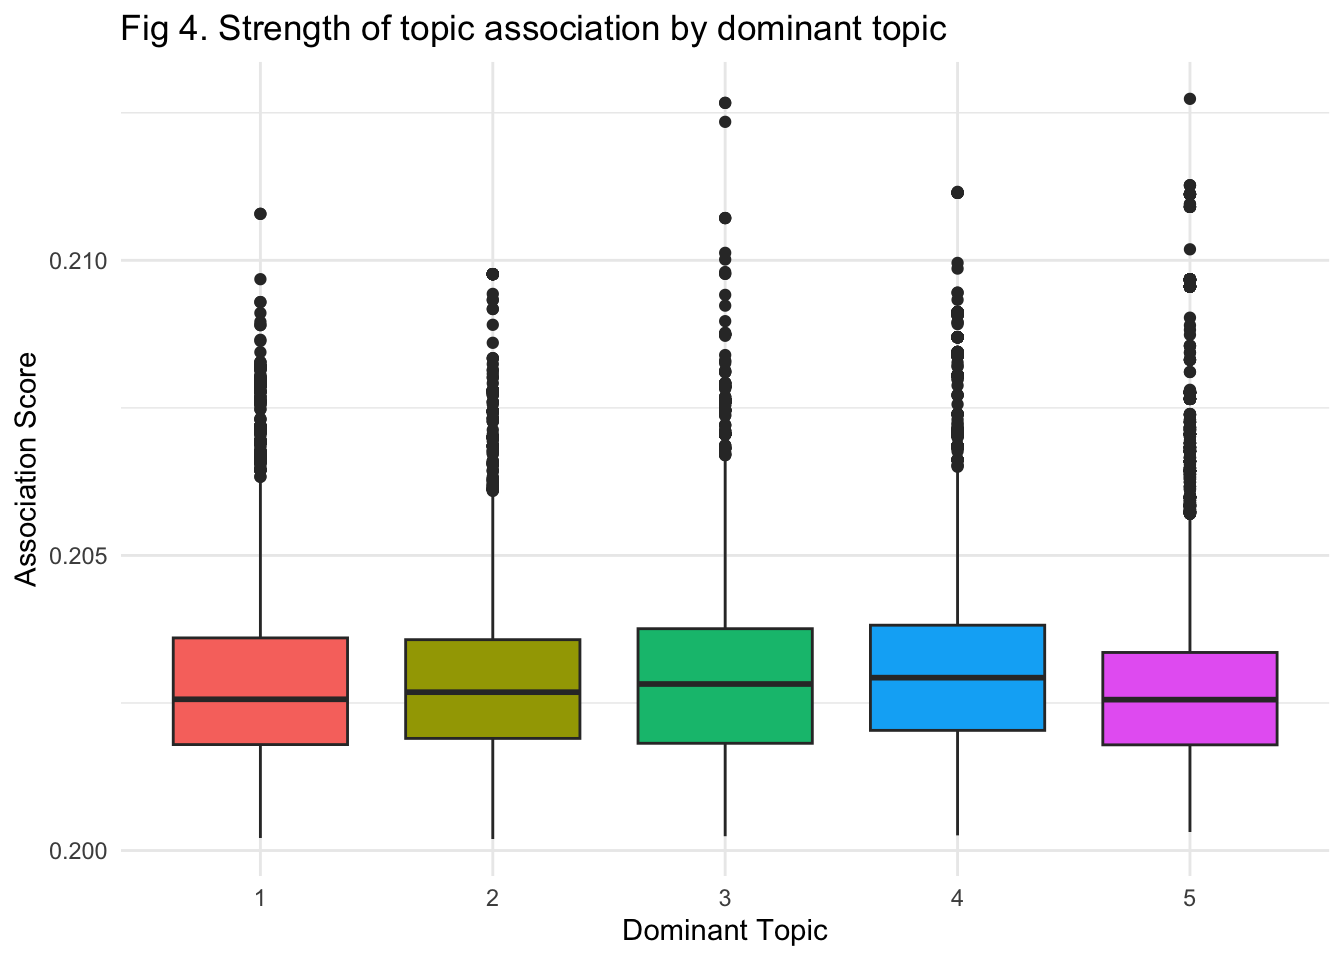
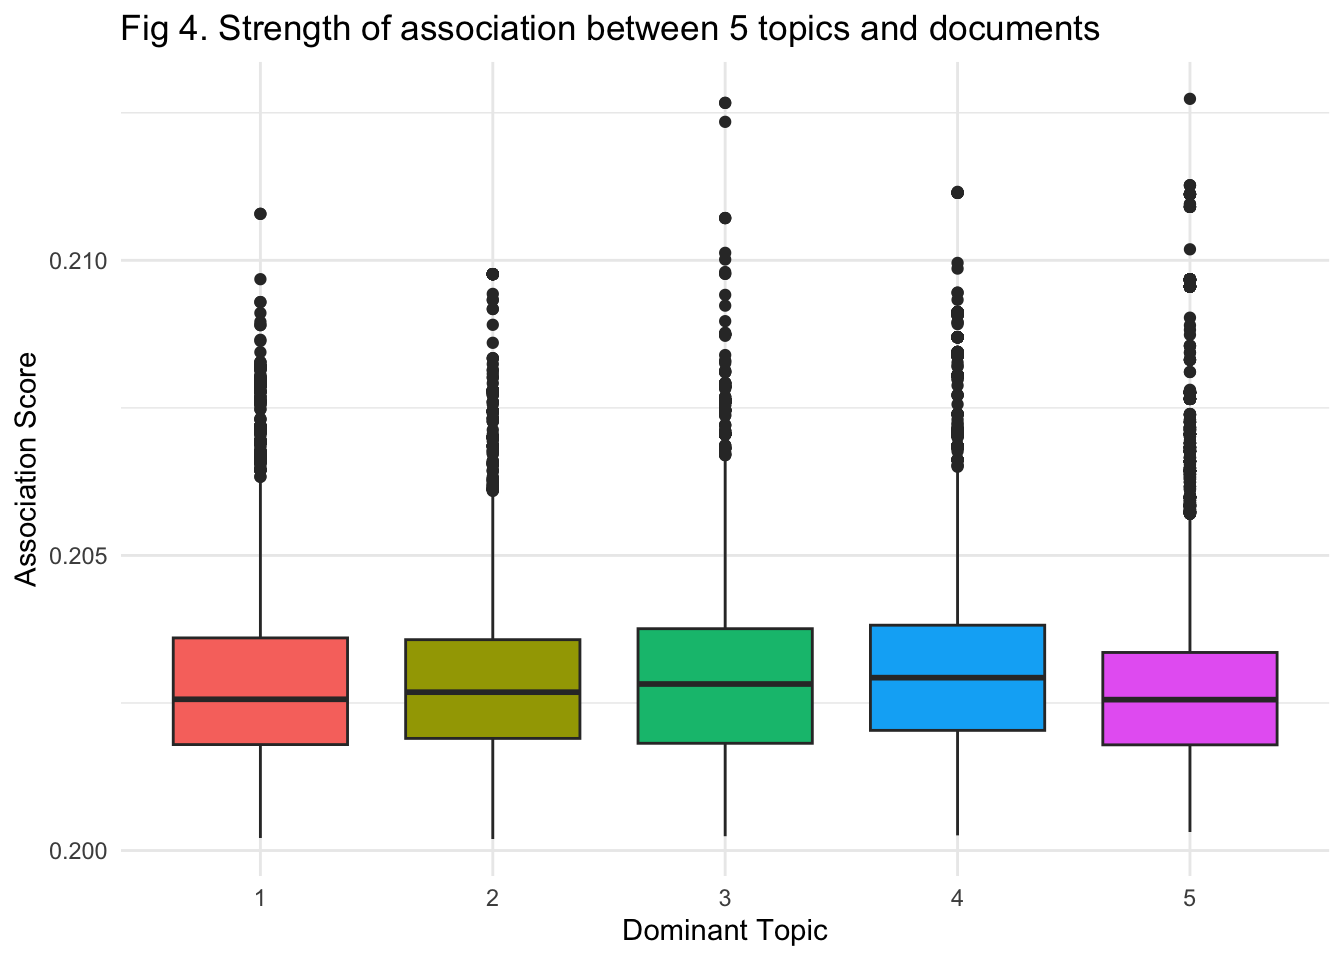
Add files via upload

Changed region(s): [[0.3125, 0.0, 0.8125, 0.0625]]

diff --git a/tutorial/topicmodel.html b/tutorial/topicmodel.html
@@ -250,7 +250,7 @@ pre > code.sourceCode > span > a:first-child::before { text-decoration: underlin
 <span id="cb9-3"><a href="#cb9-3" aria-hidden="true" tabindex="-1"></a>  <span class="fu">ggplot</span>(<span class="fu">aes</span>(<span class="at">x =</span> <span class="fu">factor</span>(dominant_topic), <span class="at">y =</span> max_association, <span class="at">fill =</span> <span class="fu">factor</span>(dominant_topic))) <span class="sc">+</span></span>
 <span id="cb9-4"><a href="#cb9-4" aria-hidden="true" tabindex="-1"></a>  <span class="fu">geom_boxplot</span>(<span class="at">show.legend =</span> F) <span class="sc">+</span></span>
 <span id="cb9-5"><a href="#cb9-5" aria-hidden="true" tabindex="-1"></a>  <span class="fu">labs</span>(</span>
-<span id="cb9-6"><a href="#cb9-6" aria-hidden="true" tabindex="-1"></a>    <span class="at">title =</span> <span class="st">"Fig 4. Strength of association between 5 topic and document"</span>,</span>
+<span id="cb9-6"><a href="#cb9-6" aria-hidden="true" tabindex="-1"></a>    <span class="at">title =</span> <span class="st">"Fig 4. Strength of association between 5 topics and documents"</span>,</span>
 <span id="cb9-7"><a href="#cb9-7" aria-hidden="true" tabindex="-1"></a>    <span class="at">x =</span> <span class="st">"Dominant Topic"</span>,</span>
 <span id="cb9-8"><a href="#cb9-8" aria-hidden="true" tabindex="-1"></a>    <span class="at">y =</span> <span class="st">"Association Score"</span></span>
 <span id="cb9-9"><a href="#cb9-9" aria-hidden="true" tabindex="-1"></a>  ) <span class="sc">+</span></span>
